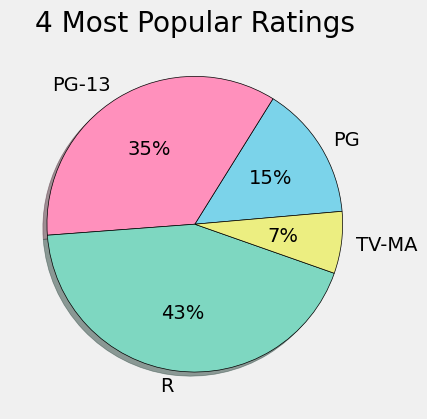
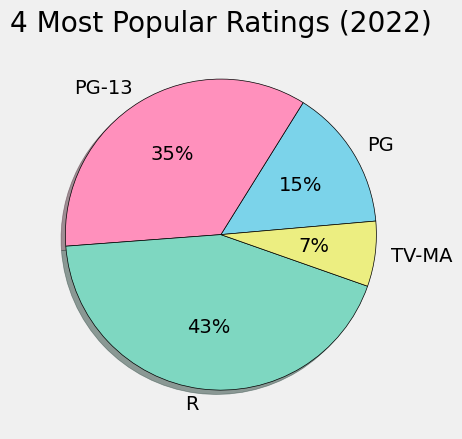
Created pie chart for 2021

diff --git a/movie_results.py b/movie_results.py
@@ -37,9 +37,9 @@ pieColorsArr = [
 
 def main(inputFilePath, year):
     df = pd.read_csv(inputFilePath)
-    scores(inputFilePath, df, year)
-    months(inputFilePath, df, year)
-    # ratings(inputFilePath, df, year)
+    # scores(inputFilePath, df, year)
+    # months(inputFilePath, df, year)
+    ratings(inputFilePath, df, year)
     # numOfRatings(inputFilePath, df, year)
     # dateAndRatings(inputFilePath, df, year)  # TODO trendline
     # runtimeScores(inputFilePath, df, year)
@@ -264,7 +264,6 @@ fileNames = []
 startYear = 2021
 for i in range(numberOfYears):
     curYear = startYear + i
-    print("curYear", curYear)
     fileNames.append(os.path.join(filePath, f"Media_Sheet_Movies_{curYear}.csv"))
 
 for i in range(numberOfYears):
